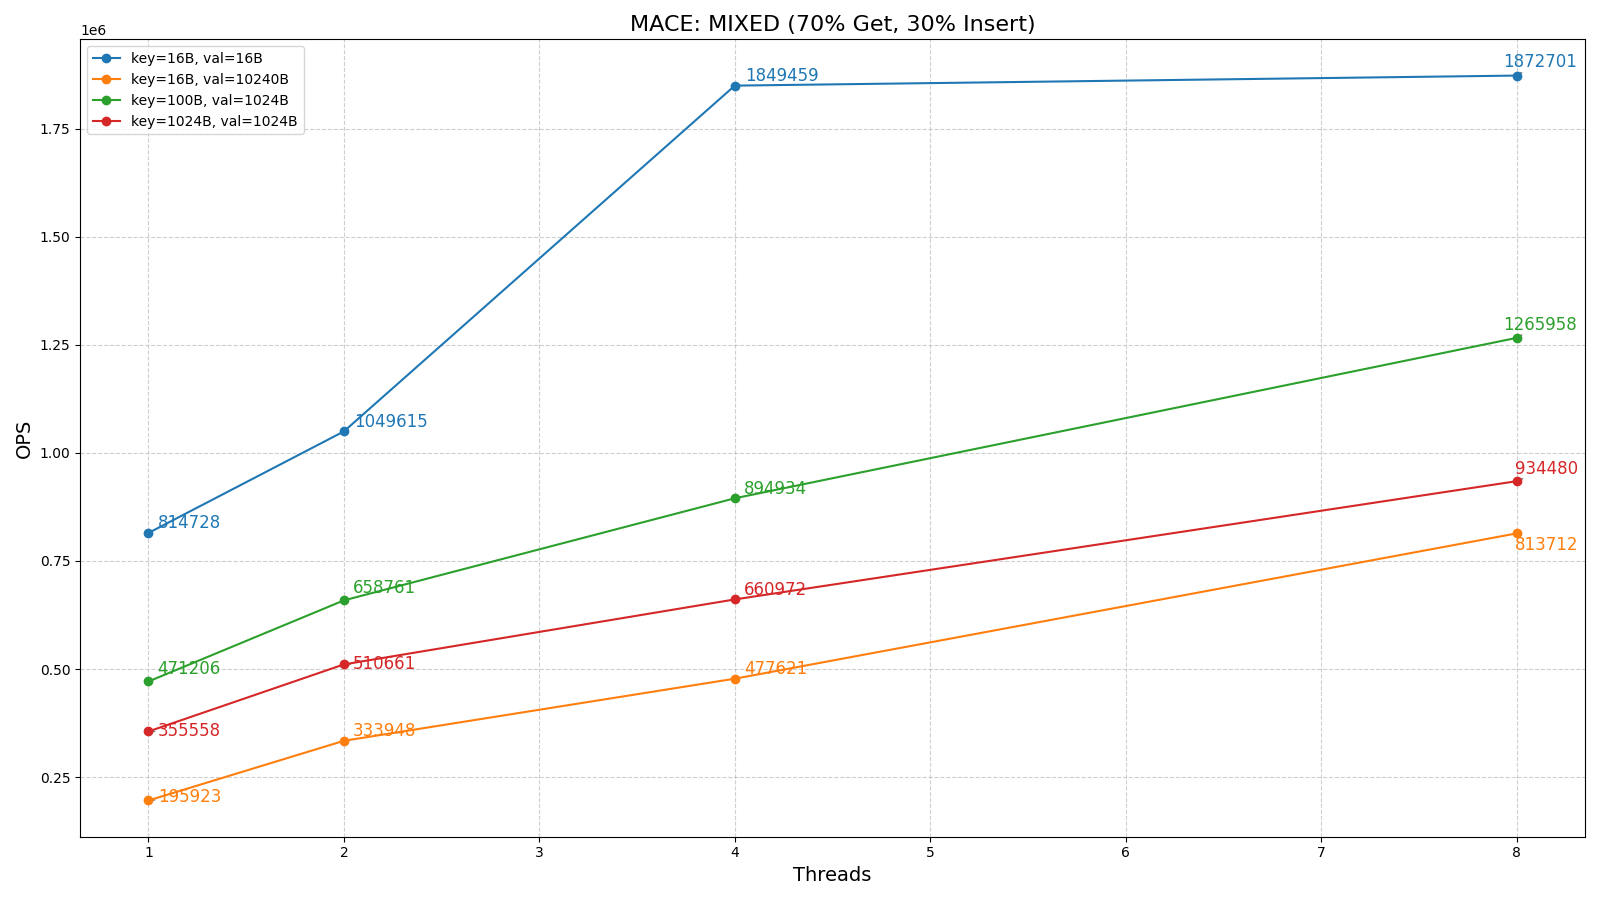
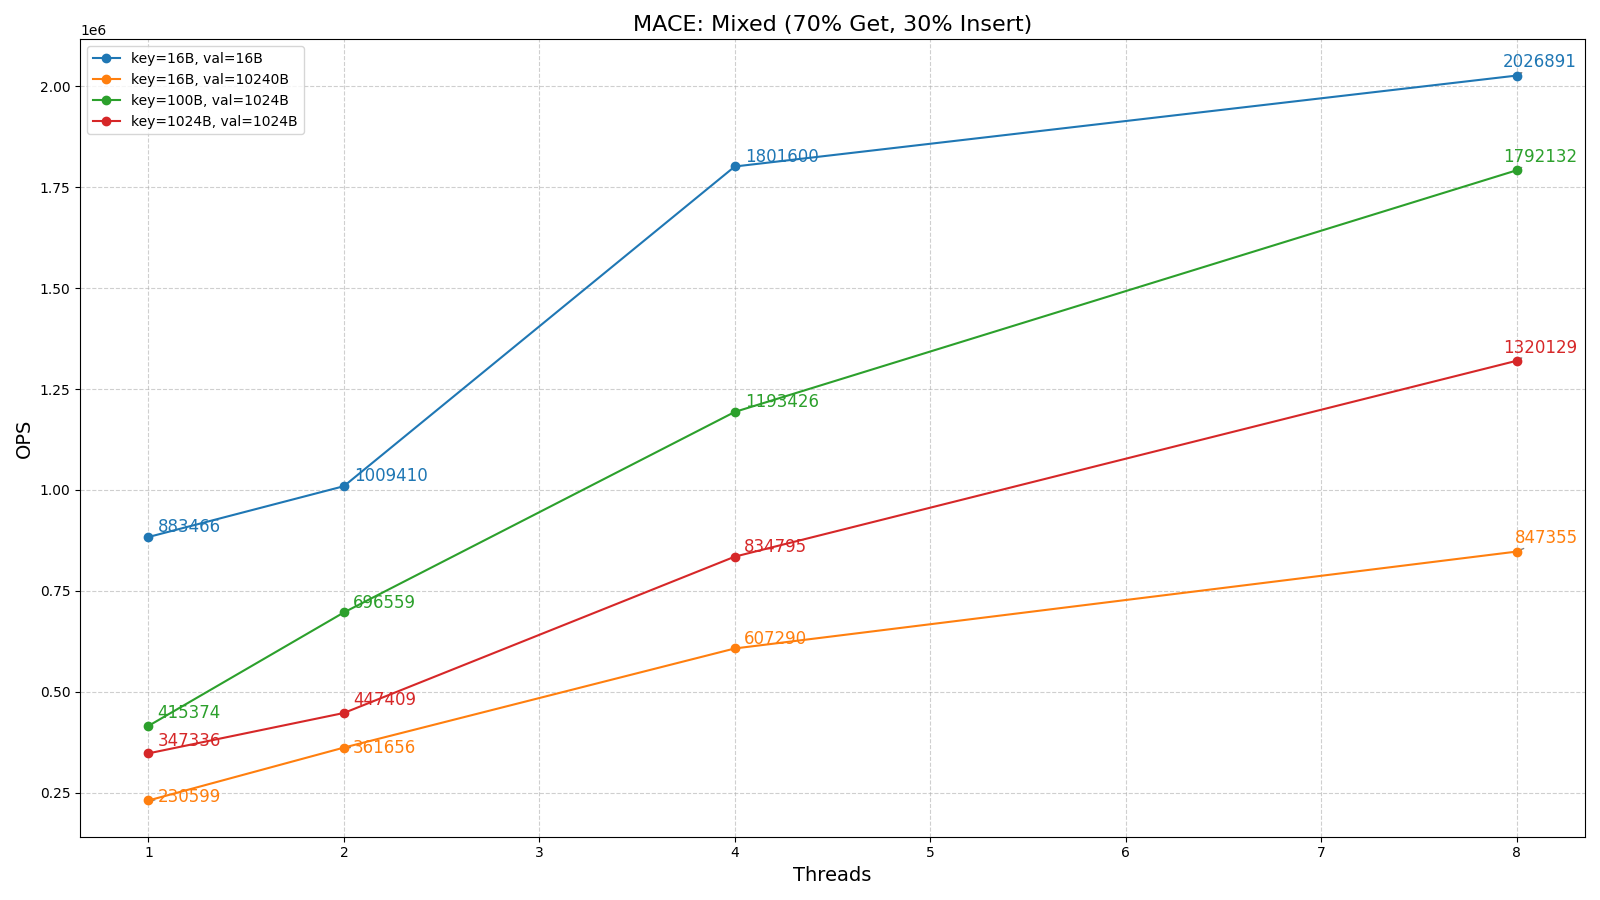
add scan test

diff --git a/rocksdb/main.cpp b/rocksdb/main.cpp
@@ -1,6 +1,8 @@
 #include <algorithm>
 #include <atomic>
 #include <cstdint>
+#include <cstdio>
+#include <fmt/base.h>
 #include <fmt/format.h>
 #include <memory>
 #include <random>
@@ -44,7 +46,7 @@ int main(int argc, char *argv[]) {
             .path = "/tmp/rocksdb_tmp",
     };
 
-    app.add_option("-m,--mode", args.mode, "Mode: insert, get, mixed");
+    app.add_option("-m,--mode", args.mode, "Mode: insert, get, mixed, scan");
     app.add_option("-t,--threads", args.threads, "Threads");
     app.add_option("-k,--key-size", args.key_size, "Key Size");
     app.add_option("-v,--value-size", args.value_size, "Value Size");
@@ -65,7 +67,7 @@ int main(int argc, char *argv[]) {
         return 1;
     }
 
-    if (args.mode != "insert" && args.mode != "get" && args.mode != "mixed") {
+    if (args.mode != "insert" && args.mode != "get" && args.mode != "mixed" && args.mode != "scan") {
         fmt::println("Error: Invalid mode");
         return 1;
     }
@@ -102,7 +104,6 @@ int main(int argc, char *argv[]) {
     options.enable_pipelined_write = true;
     options.env->SetBackgroundThreads(4, rocksdb::Env::Priority::HIGH);
 
-    auto ropt = rocksdb::ReadOptions();
     auto wopt = rocksdb::WriteOptions();
     wopt.no_slowdown = true;
     // wopt.disableWAL = true;
@@ -130,15 +131,16 @@ int main(int argc, char *argv[]) {
             tmp.resize(args.key_size, 'x');
             key.emplace_back(std::move(tmp));
         }
-        if (args.random) {
+        if (args.mode == "get" || args.random) {
             std::shuffle(keys.begin(), keys.end(), gen);
         }
         keys.emplace_back(std::move(key));
     }
 
+
     auto *handle = handles[0];
 
-    if (args.mode == "get") {
+    if (args.mode == "get" || args.mode == "scan") {
         auto *kv = db->BeginTransaction(wopt);
         for (size_t tid = 0; tid < args.threads; ++tid) {
             auto *tk = &keys[tid];
@@ -159,8 +161,11 @@ int main(int argc, char *argv[]) {
     handle = handles[0];
     for (size_t tid = 0; tid < args.threads; ++tid) {
         auto *tk = &keys[tid];
-        wg.emplace_back([&] {
+        wg.emplace_back([&, tid] {
             std::string rval(args.value_size, '0');
+            auto prefix = std::format("key_{}", tid);
+            auto ropt = rocksdb::ReadOptions();
+
             barrier.arrive_and_wait();
             if (mtx.try_lock()) {
                 b = nm::Instant::now();
@@ -194,6 +199,13 @@ int main(int argc, char *argv[]) {
                     kv->Commit();
                     delete kv;
                 }
+            } else if (args.mode == "scan") {
+                auto *iter = db->NewIterator(ropt);
+                iter->Seek(prefix);
+                while (iter->Valid()) {
+                    iter->Next();
+                }
+                delete iter;
             }
             total_op.fetch_add(args.iterations, std::memory_order::relaxed);
         });

diff --git a/src/main.rs b/src/main.rs
@@ -49,7 +49,7 @@ struct Args {
 fn main() {
     #[cfg(target_os = "linux")]
     {
-        Logger::init().add_file("/Data/x.log", true);
+        Logger::init().add_file("/tmp/x.log", true);
         log::set_max_level(log::LevelFilter::Info);
     }
     let args = Args::parse();
@@ -81,7 +81,7 @@ fn main() {
     opt.sync_on_write = false;
     opt.over_provision = true; // large value will use lots of memeory
     opt.inline_size = args.blob_size;
-    opt.tmp_store = args.mode != "get";
+    opt.tmp_store = args.mode != "get" && args.mode != "scan";
     let mut saved = opt.clone();
     saved.tmp_store = false;
     let mut db = Mace::new(opt.validate().unwrap()).unwrap();
@@ -96,13 +96,13 @@ fn main() {
             key.resize(args.key_size, b'x');
             tk.push(key);
         }
-        if args.random {
+        if args.random || args.mode == "get" {
             tk.shuffle(&mut rng);
         }
         keys.push(tk);
     }
 
-    if args.mode == "get" {
+    if args.mode == "get" || args.mode == "scan" {
         let pre_tx = db.begin().unwrap();
         (0..args.threads).for_each(|tid| {
             for i in 0..args.iterations {
@@ -130,6 +130,7 @@ fn main() {
             let insert_ratio = args.insert_ratio;
             let st = start_time.clone();
             let val = value.clone();
+            let prefix = format!("key_{tid}");
 
             std::thread::spawn(move || {
                 // coreid::bind_core(tid);
@@ -167,6 +168,13 @@ fn main() {
                                 let tx = db.view().unwrap();
                                 let _ = tx.get(key); // not found
                             }
+                        }
+                    }
+                    "scan" => {
+                        let view = db.view().unwrap();
+                        let iter = view.seek(prefix);
+                        for x in iter {
+                            std::hint::black_box(x);
                         }
                     }
                     _ => panic!("Invalid mode"),

diff --git a/scripts/plot.py b/scripts/plot.py
@@ -5,8 +5,12 @@ import sys
 
 def real_mode(m):
     if m == "mixed":
-        return "MIXED (70% Get, 30% Insert)"
-    return m.upper()
+        return "Mixed (70% Get, 30% Insert)"
+    elif m == "get":
+        return "Random Get"
+    elif m == "scan":
+        return "Sequential Scan"
+    return m.capitalize()
 
 name = sys.argv[1]
 prefix = name.split(".")[0]

diff --git a/README.md b/README.md
@@ -7,7 +7,7 @@
 
 ---
 
-## get performance (cold get)
+## random get performance (cold get)
 
 ![mace_get](./scripts/mace_get.png)
 
@@ -15,8 +15,14 @@
 
 ---
 
-# mixed perfomance
+# mixed perfomance (hot get)
 
 ![mace_mixed](./scripts/mace_mixed.png)
 
 ![rockdb_mixed](./scripts/rocksdb_mixed.png)
+
+# sequential scan perfomance (cold scan)
+
+![mace_scan](./scripts/mace_scan.png)
+
+![rocksdb_scan](./scripts/rocksdb_scan.png)
